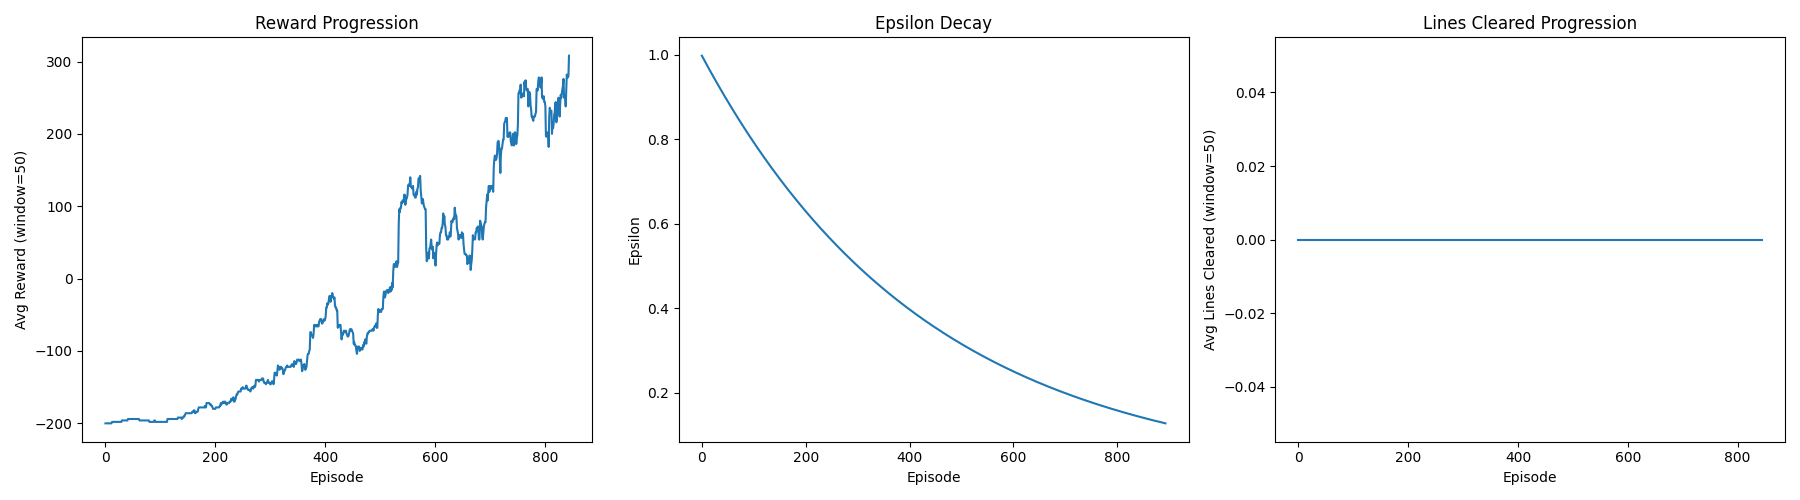
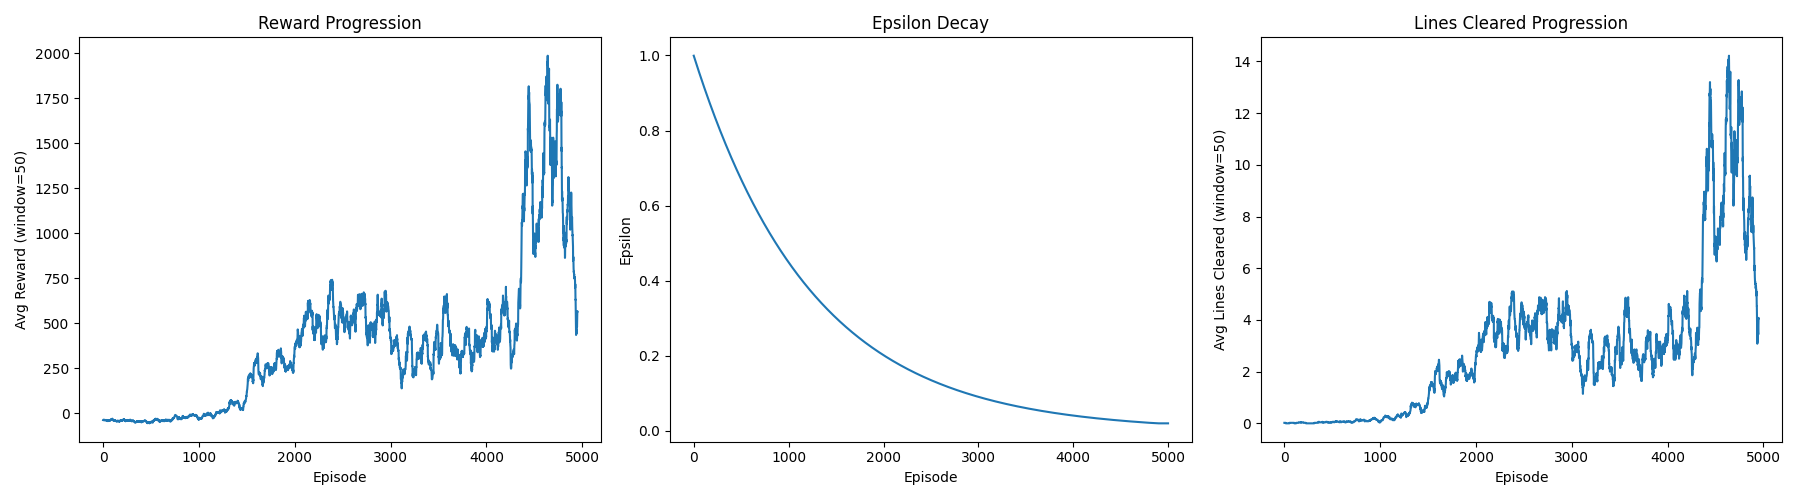
Update: everything

diff --git a/play_model.py b/play_model.py
@@ -160,7 +160,6 @@ while True:  # Infinite loop - play until user quits
     total_score = 0
     pieces_placed = 0
     line_clears = {1: 0, 2: 0, 3: 0, 4: 0}  # Track single, double, triple, tetris
-    last_clear_was_tetris = False
     
     print(f"\n{'='*50}")
     print(f"🎮 GAME #{game_count} START")
@@ -213,20 +212,42 @@ while True:  # Infinite loop - play until user quits
             if frame is not None:
                 frame = cv2.resize(frame, (frame.shape[1]*4, frame.shape[0]*4), interpolation=cv2.INTER_NEAREST)
                 
-                # Display stats on frame
-                y_pos = 30
-                cv2.putText(frame, f"Score: {total_score}", (10, y_pos), cv2.FONT_HERSHEY_SIMPLEX, 0.7, (255, 255, 255), 2, cv2.LINE_AA)
-                y_pos += 30
-                cv2.putText(frame, f"Lines: {total_lines}", (10, y_pos), cv2.FONT_HERSHEY_SIMPLEX, 0.7, (255, 255, 255), 2, cv2.LINE_AA)
-                y_pos += 30
-                cv2.putText(frame, f"Pieces: {pieces_placed}", (10, y_pos), cv2.FONT_HERSHEY_SIMPLEX, 0.7, (255, 255, 255), 2, cv2.LINE_AA)
-                y_pos += 30
-                cv2.putText(frame, f"1x: {line_clears[1]}  2x: {line_clears[2]}", (10, y_pos), cv2.FONT_HERSHEY_SIMPLEX, 0.6, (255, 255, 255), 2, cv2.LINE_AA)
-                y_pos += 25
-                cv2.putText(frame, f"3x: {line_clears[3]}  4x: {line_clears[4]}", (10, y_pos), cv2.FONT_HERSHEY_SIMPLEX, 0.6, (255, 255, 255), 2, cv2.LINE_AA)
-                y_pos += 30
+                # Display stats on frame (lower right corner)
+                frame_height = frame.shape[0]
+                frame_width = frame.shape[1]
+                
+                # Start from bottom and work upwards
+                y_pos = frame_height - 30
+                
                 # High score display with gold color
-                cv2.putText(frame, f"Highscore: {highscore['score']}", (10, y_pos), cv2.FONT_HERSHEY_SIMPLEX, 0.6, (0, 215, 255), 2, cv2.LINE_AA)
+                text = f"Highscore: {highscore['score']}"
+                text_size = cv2.getTextSize(text, cv2.FONT_HERSHEY_SIMPLEX, 1.0, 3)[0]
+                cv2.putText(frame, text, (frame_width - text_size[0] - 15, y_pos), cv2.FONT_HERSHEY_SIMPLEX, 1.0, (0, 215, 255), 3, cv2.LINE_AA)
+                y_pos -= 45
+                
+                text = f"3x: {line_clears[3]}  4x: {line_clears[4]}"
+                text_size = cv2.getTextSize(text, cv2.FONT_HERSHEY_SIMPLEX, 0.9, 2)[0]
+                cv2.putText(frame, text, (frame_width - text_size[0] - 15, y_pos), cv2.FONT_HERSHEY_SIMPLEX, 0.9, (255, 255, 255), 2, cv2.LINE_AA)
+                y_pos -= 40
+                
+                text = f"1x: {line_clears[1]}  2x: {line_clears[2]}"
+                text_size = cv2.getTextSize(text, cv2.FONT_HERSHEY_SIMPLEX, 0.9, 2)[0]
+                cv2.putText(frame, text, (frame_width - text_size[0] - 15, y_pos), cv2.FONT_HERSHEY_SIMPLEX, 0.9, (255, 255, 255), 2, cv2.LINE_AA)
+                y_pos -= 45
+                
+                text = f"Pieces: {pieces_placed}"
+                text_size = cv2.getTextSize(text, cv2.FONT_HERSHEY_SIMPLEX, 1.0, 3)[0]
+                cv2.putText(frame, text, (frame_width - text_size[0] - 15, y_pos), cv2.FONT_HERSHEY_SIMPLEX, 1.0, (255, 255, 255), 3, cv2.LINE_AA)
+                y_pos -= 45
+                
+                text = f"Lines: {total_lines}"
+                text_size = cv2.getTextSize(text, cv2.FONT_HERSHEY_SIMPLEX, 1.0, 3)[0]
+                cv2.putText(frame, text, (frame_width - text_size[0] - 15, y_pos), cv2.FONT_HERSHEY_SIMPLEX, 1.0, (255, 255, 255), 3, cv2.LINE_AA)
+                y_pos -= 45
+                
+                text = f"Score: {total_score}"
+                text_size = cv2.getTextSize(text, cv2.FONT_HERSHEY_SIMPLEX, 1.0, 3)[0]
+                cv2.putText(frame, text, (frame_width - text_size[0] - 15, y_pos), cv2.FONT_HERSHEY_SIMPLEX, 1.0, (255, 255, 255), 3, cv2.LINE_AA)
                 
                 cv2.imshow("Tetris DQN Play", frame)
                 if cv2.waitKey(100) & 0xFF == ord('q'):
@@ -239,14 +260,10 @@ while True:  # Infinite loop - play until user quits
         
         # Calculate score based on the same reward formula as training
         if lines_cleared_this_step >= 4:  # Tetris
-            step_score = lines_cleared_this_step * 200
-            if last_clear_was_tetris:
-                step_score += 400  # Back-to-back tetris bonus
-            last_clear_was_tetris = True
+            step_score = 1200  # Fixed tetris reward
             line_clears[4] += 1
-        elif lines_cleared_this_step > 0:  # Regular clear
+        elif lines_cleared_this_step > 0:  # Regular clear (1-3 lines)
             step_score = lines_cleared_this_step * 100
-            last_clear_was_tetris = False
             line_clears[lines_cleared_this_step] += 1
         else:
             step_score = 0

diff --git a/tetris_dqn.py b/tetris_dqn.py
@@ -52,7 +52,7 @@ FEATURE_DIM = 5
 print("🔧 Using 5-feature extraction (aggregate_height, complete_lines, holes, min_height, max_height)")
 
 # ------------------------
-# Feature-Only DQN Network (TetrisAI Style)
+# Feature-Only DQN Network
 # ------------------------
 class DQN(nn.Module):
     def __init__(self, feature_dim=5):
@@ -165,18 +165,16 @@ def extract_features(board_state):
         'max_height': max_height
     }
 
-def shape_reward(lines_cleared, terminated, last_clear_was_tetris=False):
+def shape_reward(lines_cleared, terminated):
     """
-    Reward formula based on the Processing reference code:
+    Reward formula based on Processing reference (without back-to-back bonus):
     - Regular clears (1-3 lines): cleared * 100
-    - Tetris (4 lines): cleared * 200
-    - Back-to-back Tetris bonus: +400
-    - Game over: return negative score
+    - Tetris (4 lines): 1200
+    - Game over: -200
     
     Args:
         lines_cleared: Number of lines cleared this step
         terminated: Whether the game ended
-        last_clear_was_tetris: Whether the previous clear was also a tetris (for bonus)
     
     Returns:
         Reward score for this step
@@ -184,16 +182,16 @@ def shape_reward(lines_cleared, terminated, last_clear_was_tetris=False):
     if terminated:
         return -200  # Penalty for game over
     
-    score = 0
+    reward = 10
     
-    if lines_cleared >= 4:  # Tetris (4-line clear)
-        score += lines_cleared * 200
-        if last_clear_was_tetris:
-            score += 400  # Back-to-back tetris bonus
+    if lines_cleared >= 4:  # Tetris
+        reward += 800
     elif lines_cleared > 0:  # Regular clear (1-3 lines)
-        score += lines_cleared * 100
+        reward += lines_cleared * 100
+
+    return reward
     
-    return score
+    return 0
 
 def save_training_graph(rewards_per_episode, epsilon_history, lines_per_episode):
     fig = plt.figure(figsize=(18,5))
@@ -439,7 +437,6 @@ def remember(features, reward, next_features, done):
     memory.append((features, reward, next_features, done))
 
 def replay():
-    """Reference-style replay training (exact match to TetrisAI)"""
     if len(memory) < batch_size:
         return
     
@@ -530,7 +527,6 @@ if __name__ == "__main__":
         episode_pieces = 0
         episode_reward_total = 0  # Track cumulative reward per episode
         episode_lines_total = 0  # Track total lines cleared per episode
-        last_clear_was_tetris = False  # Track back-to-back tetris bonus
 
         while episode < num_episodes:
             # Get all possible next states (like reference implementation)
@@ -578,16 +574,10 @@ if __name__ == "__main__":
                 env.render()
                 cv2.waitKey(1)
             
-            # Calculate reward with back-to-back tetris tracking
-            step_reward = shape_reward(lines_cleared_this_step, terminated, last_clear_was_tetris)
+            # Calculate reward
+            step_reward = shape_reward(lines_cleared_this_step, terminated)
             episode_reward_total += step_reward
             episode_lines_total += lines_cleared_this_step  # Accumulate lines cleared
-            
-            # Update tetris tracking for next piece
-            if lines_cleared_this_step >= 4:
-                last_clear_was_tetris = True
-            elif lines_cleared_this_step > 0:
-                last_clear_was_tetris = False
             
             # Store transition in replay memory
             remember(current_state_features, step_reward, next_state_features, terminated)
@@ -653,7 +643,6 @@ if __name__ == "__main__":
                 episode_pieces = 0
                 episode_reward_total = 0
                 episode_lines_total = 0  # Reset lines counter
-                last_clear_was_tetris = False  # Reset tetris tracking for new episode
                 
                 # Reset environment
                 obs, info = env.reset()
